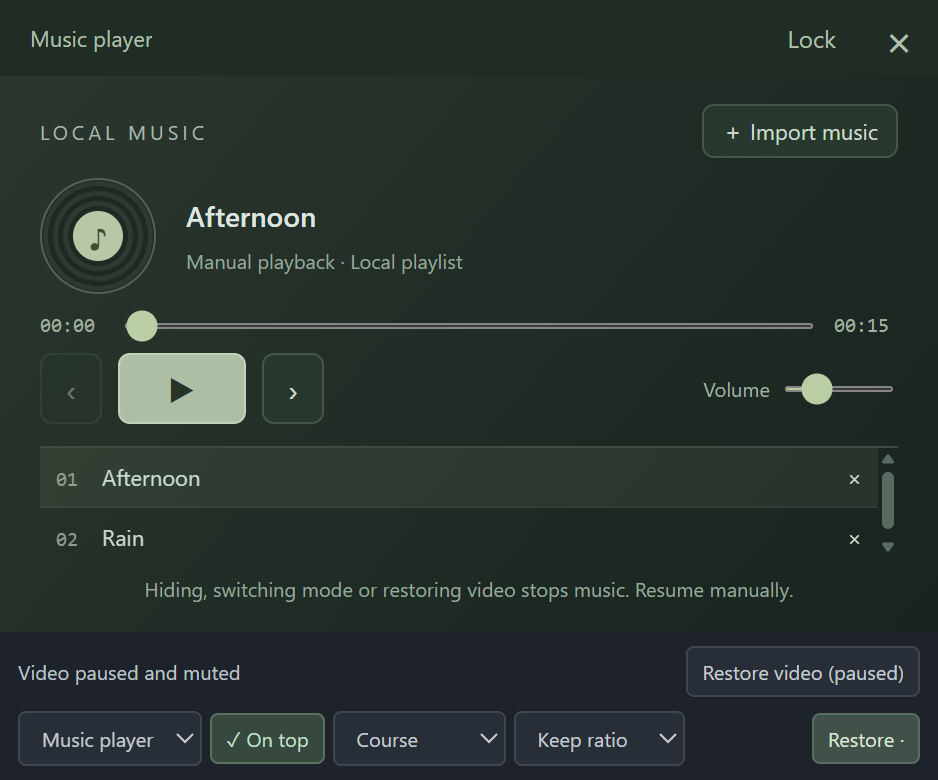
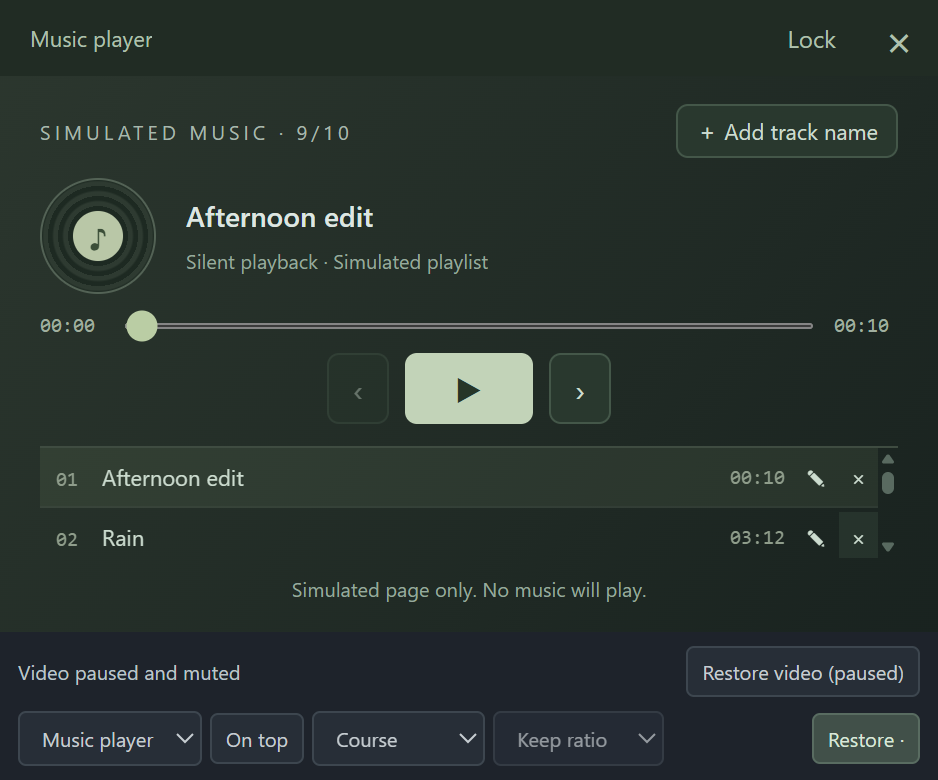
Document v1.0.6 silent simulated music

diff --git a/README.en.md b/README.en.md
@@ -6,7 +6,7 @@ A local desktop app for TXT reading, floating video, visual disguises and quick 
 
 ## Download and run
 
-Download **Moyu-1.0.5-win-x64.exe** from the release's **Assets**, then double-click it. You only need this one EXE; no Node.js or other files are required. Initial startup extracts the runtime and may take a few seconds. SHA256SUMS.txt provides the download checksum.
+Download **Moyu-1.0.6-win-x64.exe** from the release's **Assets**, then double-click it. You only need this one EXE; no Node.js or other files are required. Initial startup extracts the runtime and may take a few seconds. SHA256SUMS.txt provides the download checksum.
 
 The app is built for Windows x64 and tested on Windows 11. Windows 10 has not been separately tested on another physical device. macOS, Linux and mobile versions are not currently available. The EXE is unsigned, so your system may display a download or startup warning.
 
@@ -38,9 +38,9 @@ In **Disguises → Replacement page**, choose Ad, Clock, Timer or Music player, 
 
 - **Clock:** live local system time and date.
 - **Timer:** countdown or stopwatch, start/pause/reset, custom minutes and presets. Time continues across page switches, hiding, sleep and app restarts. Completion is visual and silent.
-- **Music player:** import local MP3/WAV/M4A/AAC/OGG/FLAC/Opus files, playlist selection, manual previous/next track, play/pause, seeking and volume. Codec support varies; PCM WAV playback was tested. External music accounts and streaming catalogs are not connected.
+- **Simulated music page (v1.0.6):** type up to 10 track names and set each duration (min:sec or hr:min:sec). Play/pause, previous/next and seeking animate the display only. No music is played.
 
-Mode, playlist, position, volume and timer state are saved locally. Music files are referenced by their original path; removing a playlist entry does not delete the file. Hiding, minimizing, changing mode, restoring video or closing the window stops music. Resume manually; video and music do not play together.
+Mode, names, durations, position and timer state are saved locally. Older audio playlists migrate names only, with a default three-minute duration and a limit of 10 tracks; file paths are no longer used. Hiding, minimizing, changing mode, restoring video or closing the window pauses simulated progress. Resume manually.
 
 ![Local music player](docs/screenshots/alternatives-music-en.png)
 

diff --git a/docs/FUTURE_IMPLEMENTATION.md b/docs/FUTURE_IMPLEMENTATION.md
@@ -7,6 +7,6 @@
 - [ ] **尝试接入外部小说 App 及漫画**：探索番茄小说等外部阅读平台的接入方式，并考虑漫画阅读支持。
 - [x] **支持英文版 App（v1.0.2）**：设置中可选择简体中文或 English，覆盖主窗口、阅读器、视频、托盘、对话框和应用提示，重启后记住选择。
 - [ ] **优化广告界面**：改进广告伪装的布局、视觉样式和交互，让界面更自然。
-- [x] **广告页面支持时钟、计时器和听歌软件模式（v1.0.4）**：可切换原广告、实时时钟、倒计时／秒表和本地音乐播放器；支持歌单、手动上一首／下一首、播放进度及音量。隐藏、最小化、换模式或切回视频会停止音乐，恢复后手动播放。选择和计时状态本地保存，支持中英文；尚未接入外部音乐服务。
+- [x] **广告页面支持时钟、计时器和模拟音乐模式（v1.0.4，v1.0.6 调整）**：可切换原广告、实时时钟、倒计时／秒表和模拟音乐页面。音乐页可输入最多 10 首歌名与自定义时长，支持无声的播放／暂停、切歌和进度拖动；隐藏、最小化、换模式或切回视频会暂停模拟进度。歌单与计时状态本地保存，支持中英文，不再导入或播放真实音频。
 - [ ] **新增模拟软件下载界面**：增加假装正在下载软件的伪装界面，显示模拟进度条、下载速度、剩余时间和软件信息。
 - [ ] **适配 macOS**：提供 Mac 版应用，适配窗口、托盘和快捷键行为，并验证 Apple Silicon 与 Intel Mac 的运行和打包。
